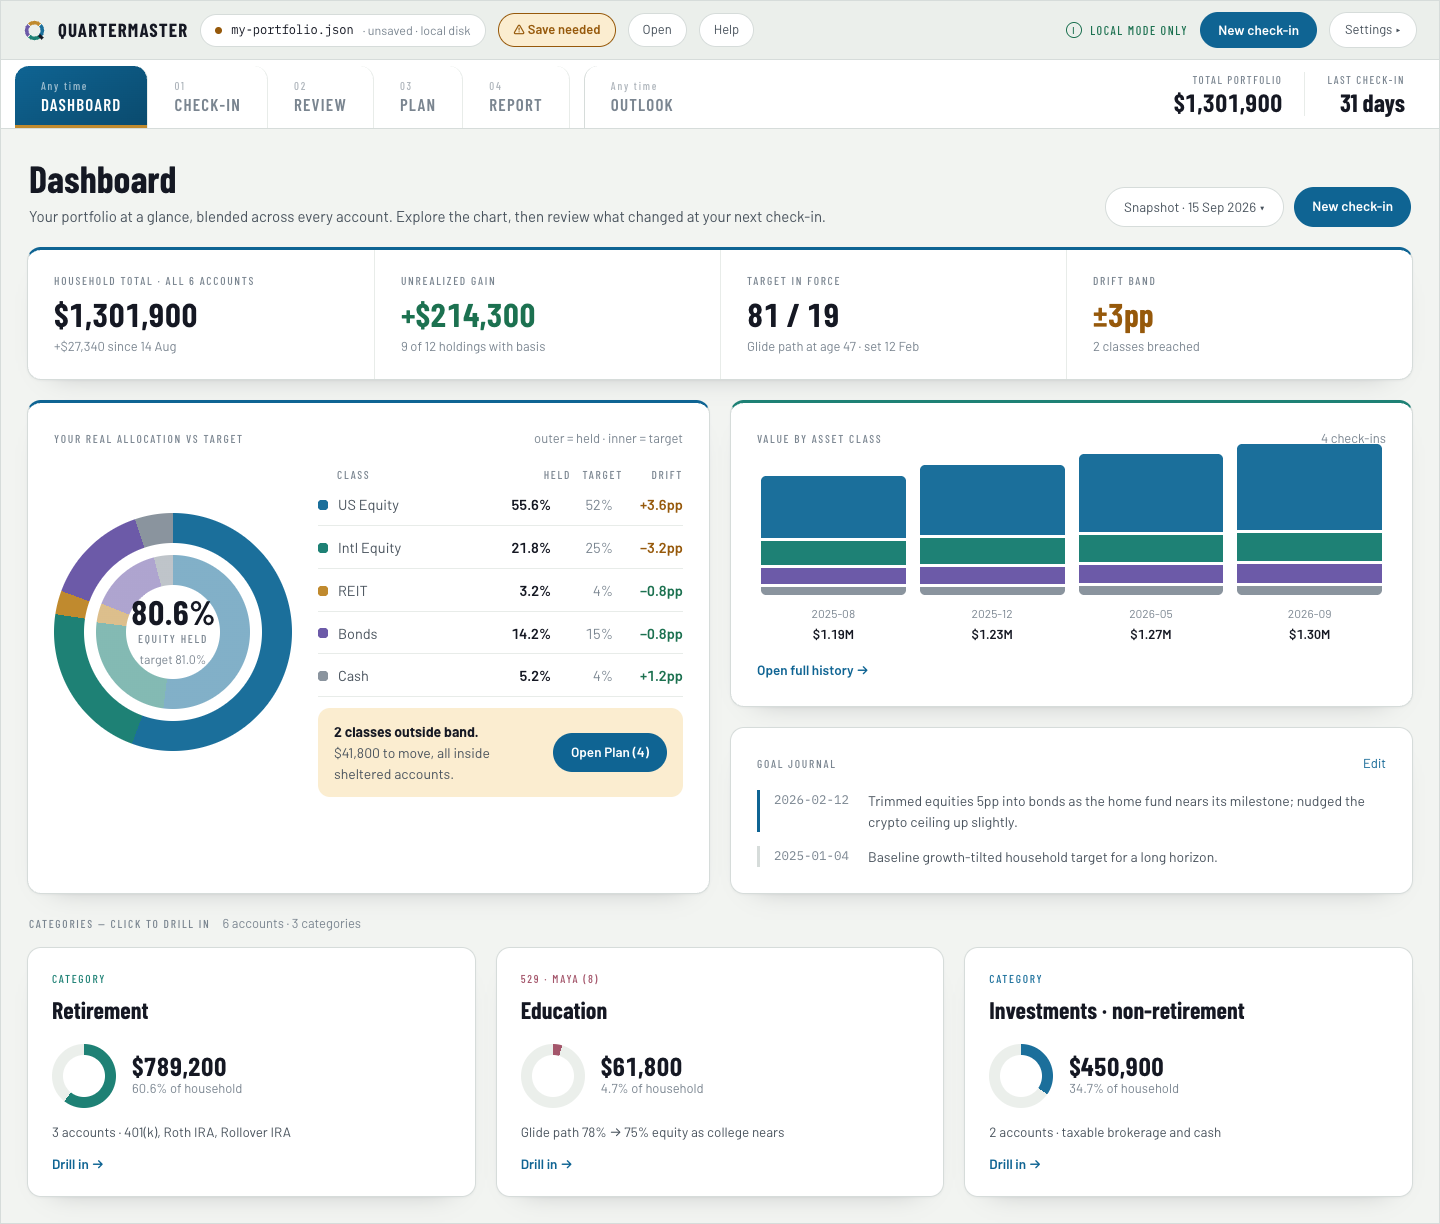
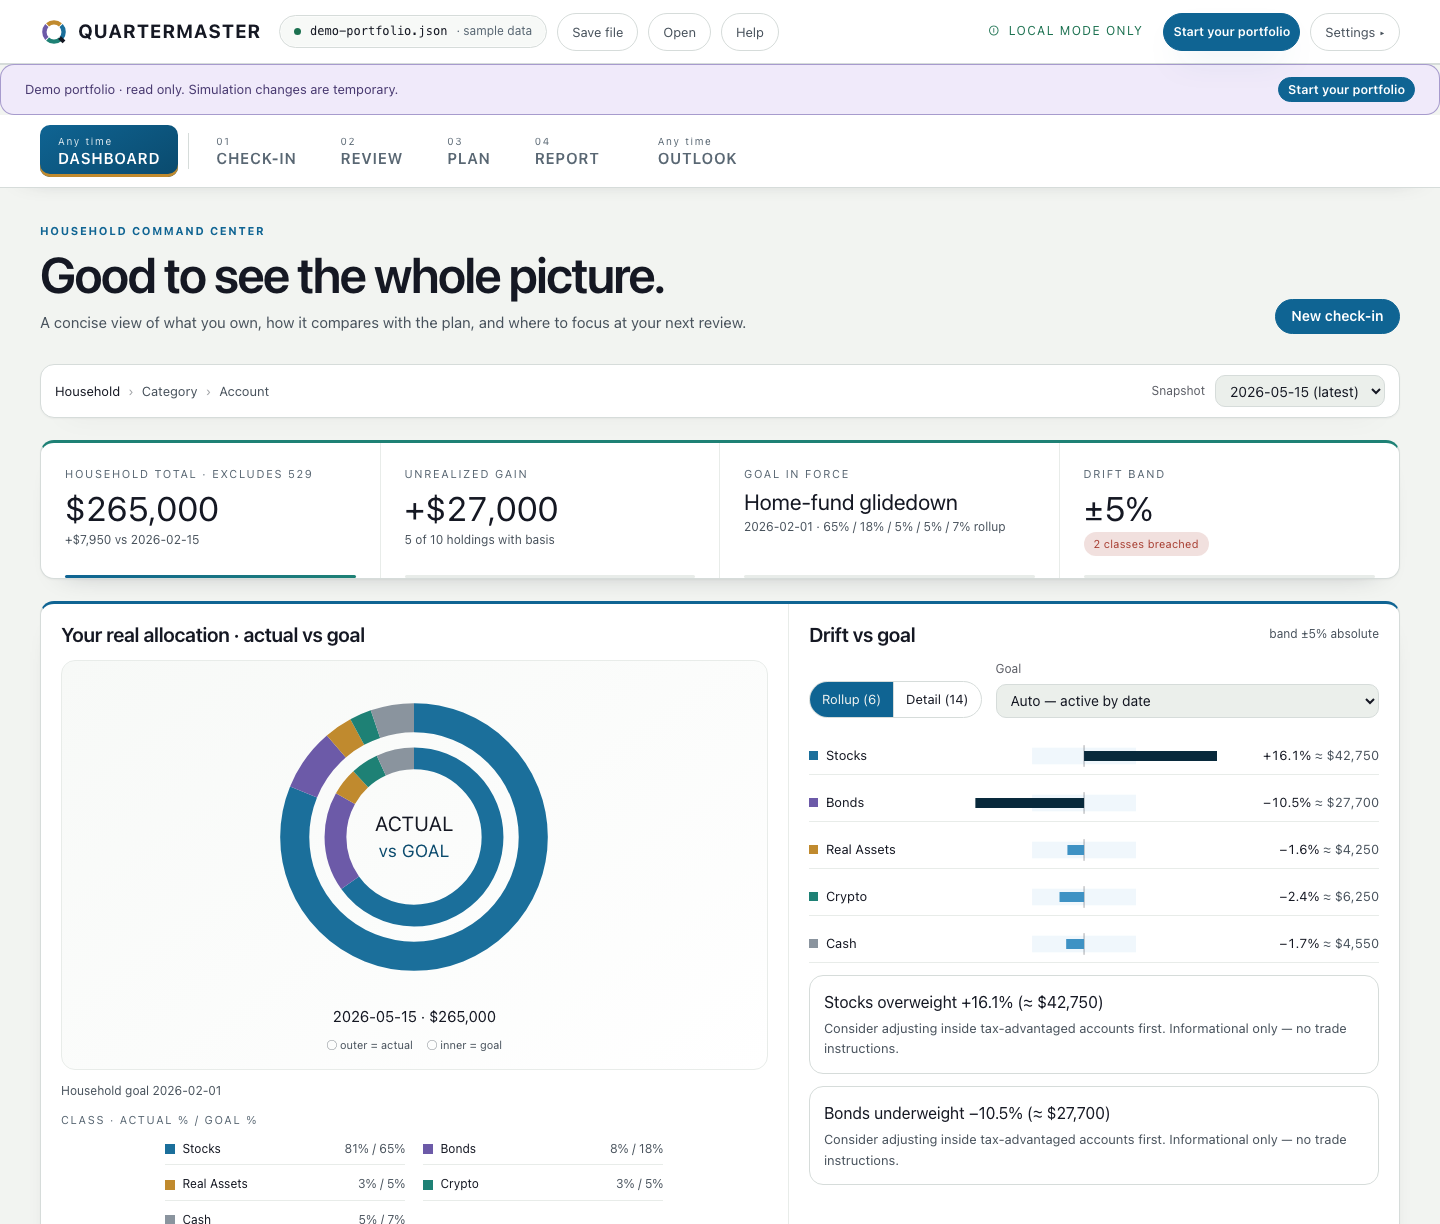
feat: animate landing status and use live screenshots

diff --git a/index.html b/index.html
@@ -737,15 +737,18 @@
   .landing .landing-hero-copy { max-width:850px;margin:0 auto; }
   .landing .landing-hero-copy > p { max-width:720px;margin-left:auto !important;margin-right:auto !important; }
   .landing .landing-trust-pill { display:inline-flex;align-items:center;gap:8px;padding:7px 13px;border:1px solid #dbe6e1;border-radius:var(--radius-pill);background:rgba(255,255,255,.82);color:var(--color-ink-2);font-size:11px;box-shadow:var(--shadow-sm); }
-  .landing .landing-trust-pill::before { content:"";width:7px;height:7px;border-radius:50%;background:var(--color-teal); }
+  .landing .landing-trust-status { display:inline-flex;width:20px;height:20px;border-radius:50%;background:var(--color-teal-soft);align-items:center;justify-content:center; }
+  .landing .landing-trust-dot { width:7px;height:7px;border-radius:50%;background:var(--color-teal);animation:landing-status-pulse 2.4s ease-in-out infinite; }
+  .landing .landing-gradient-title { background:linear-gradient(96deg,var(--c1) 0%,var(--c2) 52%,var(--c3) 100%);-webkit-background-clip:text;background-clip:text;color:transparent; }
+  @keyframes landing-status-pulse { 0%,100% { opacity:1;transform:scale(1); } 50% { opacity:.42;transform:scale(.75); } }
   .landing .landing-hero h1 { font-size:clamp(54px,6.4vw,86px) !important;line-height:.9 !important;letter-spacing:-.045em !important;margin-top:26px !important; }
   .landing .landing-hero-actions { justify-content:center; }
   .landing .landing-hero-meta { display:flex;justify-content:center;gap:22px;flex-wrap:wrap;margin-top:18px;color:var(--color-ink-3);font-size:11px; }
   .landing .landing-product-stage { position:relative;width:min(1120px,94%);margin:54px auto 0;padding-bottom:88px; }
   .landing .landing-desktop-shot { margin:0;border:1px solid var(--color-divider);border-radius:var(--radius-md);background:var(--color-panel);box-shadow:0 34px 70px -42px rgba(15,100,147,.58);overflow:hidden; }
   .landing .landing-desktop-shot img { display:block;width:100%;height:auto; }
-  .landing .landing-phone-shot { position:absolute;right:7%;bottom:0;width:22%;min-width:150px;margin:0;filter:drop-shadow(0 24px 24px rgba(21,24,35,.26)); }
-  .landing .landing-phone-shot img { display:block;width:100%;height:auto; }
+  .landing .landing-phone-shot { position:absolute;right:7%;bottom:0;width:22%;min-width:150px;margin:0;border:8px solid #252c3b;border-radius:30px;background:#252c3b;box-shadow:0 28px 48px -24px rgba(21,24,35,.58);overflow:hidden;box-sizing:border-box; }
+  .landing .landing-phone-shot img { display:block;width:100%;height:auto;border-radius:20px; }
   .landing #lp-ritual { background:linear-gradient(145deg,var(--color-accent-wash),var(--color-panel)) !important;color:var(--color-text) !important;border-color:var(--color-divider) !important; }
   .landing #lp-ritual h2 { color:var(--color-text) !important; }
 
@@ -3768,8 +3771,8 @@ function renderMarketingLanding() {
 
     <div class="landing-hero">
       <div class="landing-hero-copy">
-        <div class="landing-trust-pill">Runs on your machine · portfolio data stays in your file</div>
-        <h1 style="${cond}">Every account.<br><span style="color:var(--color-accent);">One real allocation.</span></h1>
+        <div class="landing-trust-pill"><span class="landing-trust-status" aria-hidden="true"><span class="landing-trust-dot"></span></span>Runs on your machine · portfolio data stays in your file</div>
+        <h1 style="${cond}">Every account.<br><span class="landing-gradient-title">One real allocation.</span></h1>
         <p style="font-size:16px;line-height:1.65;color:var(--color-ink-2);margin:24px auto 0;">Every institution shows you a reported allocation — its own slice, in isolation. Nobody shows you the whole. Quartermaster blends every account you hold into one real allocation, then helps you check it against your target and plan with a complete view.</p>
         <div class="landing-hero-actions" style="display:flex;gap:14px;margin-top:30px;flex-wrap:wrap;">
           <span class="landing-action primary" style="padding:14px 30px;background:var(--color-accent);color:#fff;font-weight:600;font-size:16px;cursor:pointer;" data-act="landing-open">Start here · free</span>
